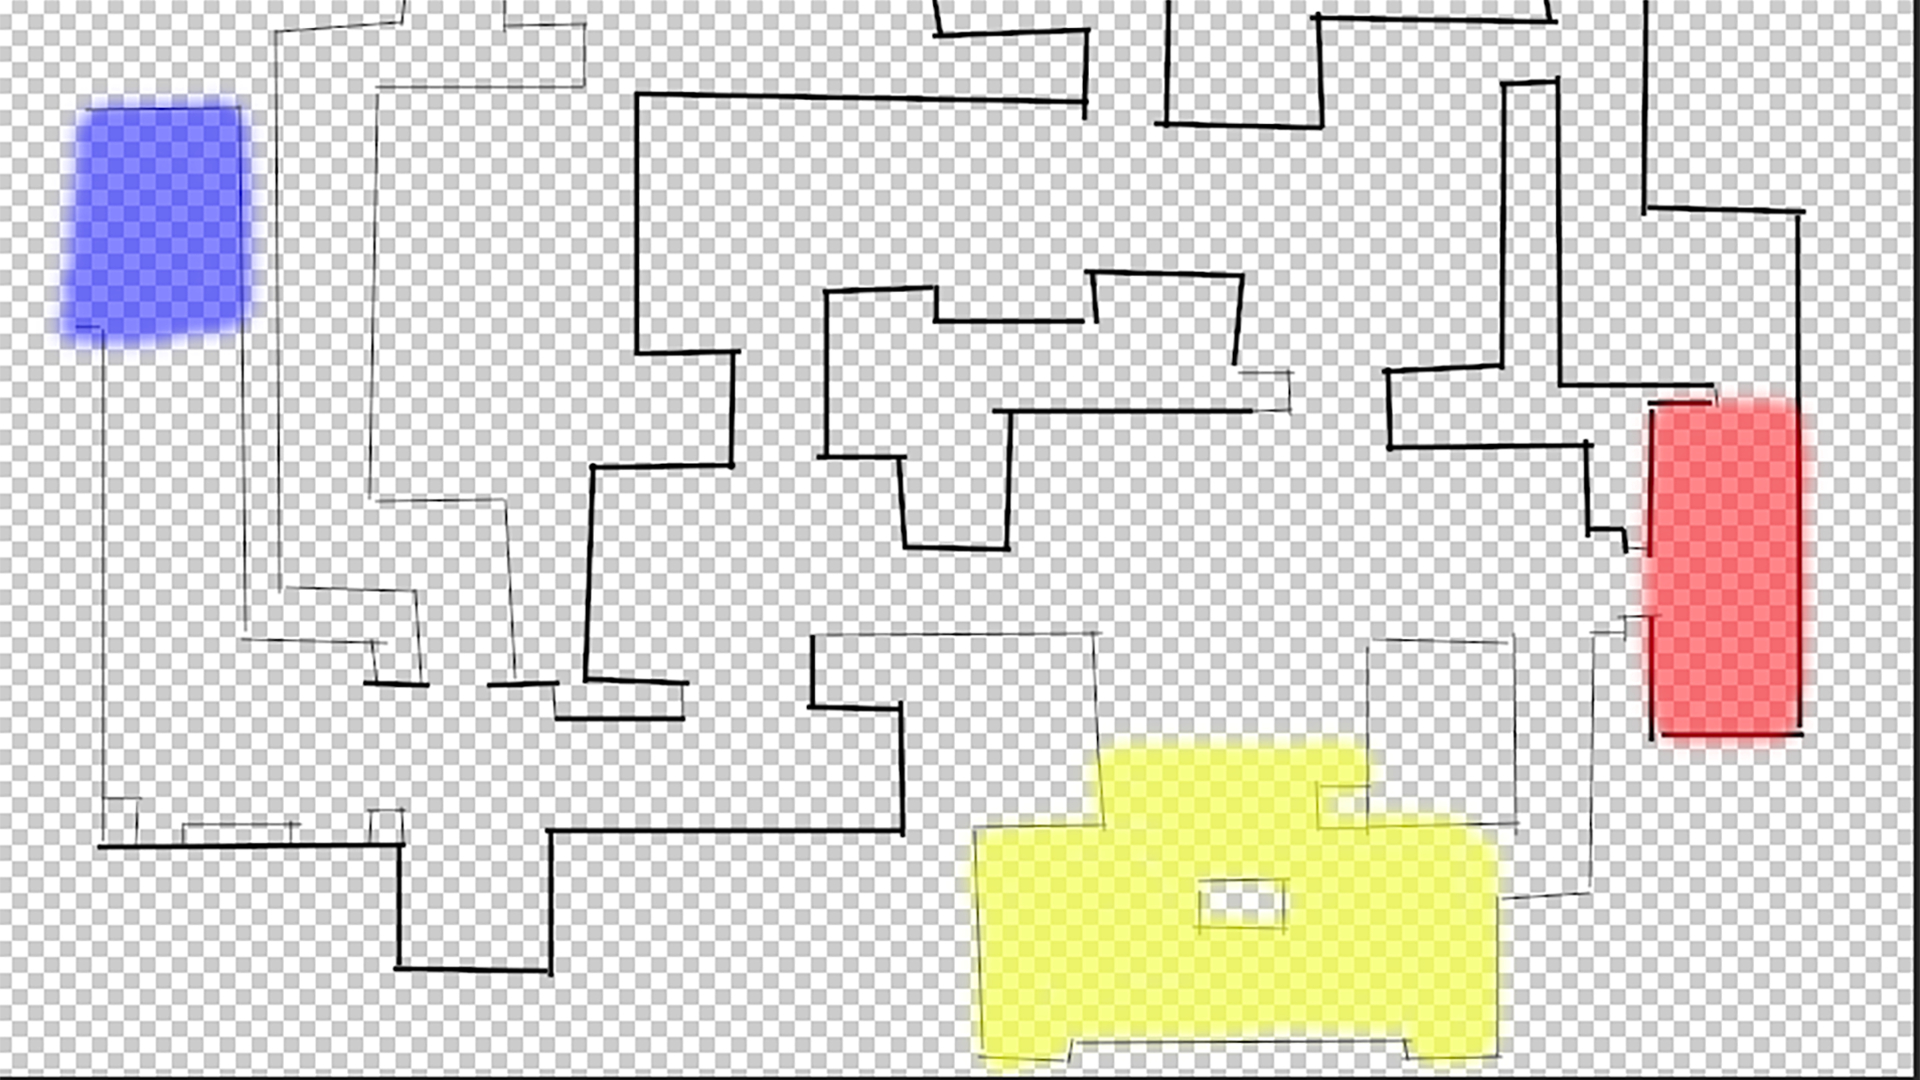
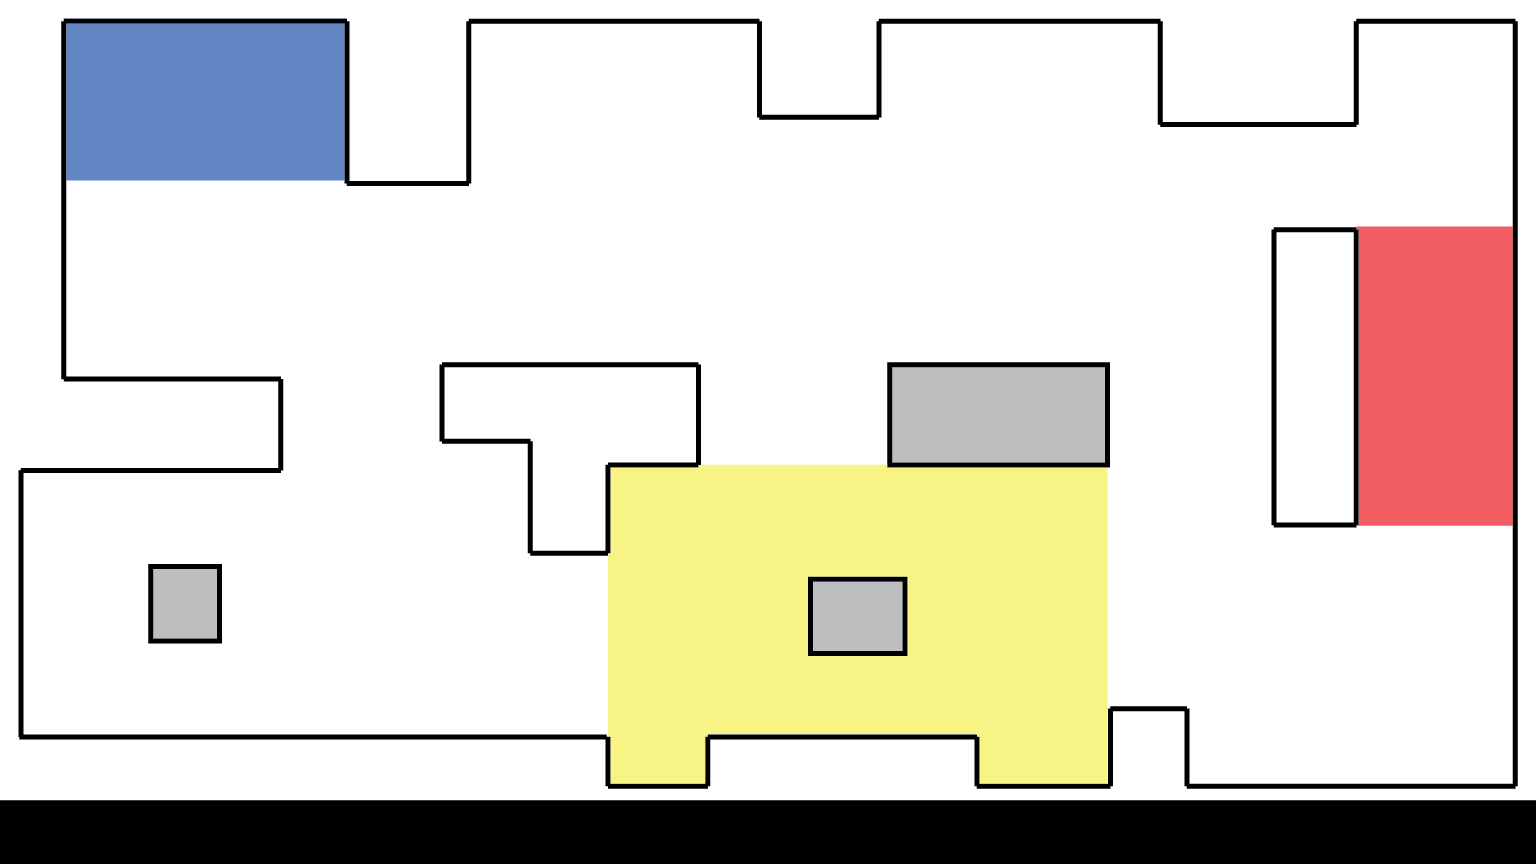
finalized map layout, implemented wall collision

diff --git a/spike_map.py b/spike_map.py
@@ -47,11 +47,44 @@ class split_model(wall):
 
         # actual dimensions come out to 1536 x 864
         self._map_dimensions = (1920/1.25, 1080/1.25)
+
         # create empty wall group
         self._wall_list = pygame.sprite.Group()
-        # add test walls
-        self._wall_list.add(wall((300, 400), 200, 200))
-        self._wall_list.add(wall((1000, 500), 400, 300))
+
+        # add Split map walls (position (x, y), width, height)
+
+        # top left
+        self._wall_list.add(wall((63, 21), 1450, 3))
+        self._wall_list.add(wall((64, 21), 3, 358))
+
+        # top
+        self._wall_list.add(wall((346, 21), 123, 162))
+        self._wall_list.add(wall((759, 21), 120, 96))
+        self._wall_list.add(wall((1160, 21), 196, 104))
+
+        # right
+        self._wall_list.add(wall((1515, 21), 3, 765))
+
+        # bottom
+        self._wall_list.add(wall((400, 788), 1130, 3))
+        self._wall_list.add(wall((1110, 709), 77, 85))
+        self._wall_list.add(wall((708, 737), 269, 55))
+        self._wall_list.add(wall((21, 737), 587, 55))
+
+        # left
+        self._wall_list.add(wall((21, 470), 3, 267))
+        self._wall_list.add(wall((21, 379), 260, 91))
+
+        # inner walls
+        self._wall_list.add(wall((151, 566), 68, 74))
+        self._wall_list.add(wall((810, 579), 95, 74))
+        self._wall_list.add(wall((890, 365), 218, 100))
+        self._wall_list.add(wall((1274, 230), 82, 295))
+
+        # the t shaped one
+        self._wall_list.add(wall((442, 365), 256, 76))
+        self._wall_list.add(wall((530, 441), 168, 24))
+        self._wall_list.add(wall((530, 441), 78, 112))
 
 
 class split_view:
@@ -66,6 +99,7 @@ class split_view:
 
     def __init__(self, model):
         self.model = model  # from split_model
+
         # set 1920x1080 full screen window
         self._window = pygame.display.set_mode(self.model._map_dimensions,
                                                pygame.FULLSCREEN)
@@ -73,7 +107,7 @@ class split_view:
             pygame.transform.scale(pygame.image.load
                                    (os.path.join('images',
                                                  'map',
-                                                 'split_layout.png')).convert(),
+                                                 'split_color.png')).convert(),
                                    self.model._map_dimensions)
 
     def draw_map(self):

diff --git a/movement.py b/movement.py
@@ -5,8 +5,6 @@ Creates a controller to provide movement for agents
 import pygame
 import os
 
-# import test map
-# test map dimensions: 1500 x 500 pixels
 from spike_map import split_model, split_view
 
 
@@ -27,7 +25,7 @@ class character_model:
         """
         Spawn the character in the world.
         """
-        self._spawn = [100, 100]
+        self._spawn = [205-25, 99-25]  # spawn in defender zone
         self.position = self._spawn  # set to spawn initially
         self._movement_check = 0  # initially not moving
         self._frame = 0  # count frames
@@ -193,8 +191,11 @@ def movement_test():
         controller.move(character_speed, keys, map_model._wall_list)
 
         # update stuff
+        # draw backdrop
         map_view.draw_map()
-        map_view.draw_walls()
+
+        # walls will still have collision even if not drawn
+        # map_view.draw_walls()
 
         # draw character
         view.draw_sprite(map_view._window)
